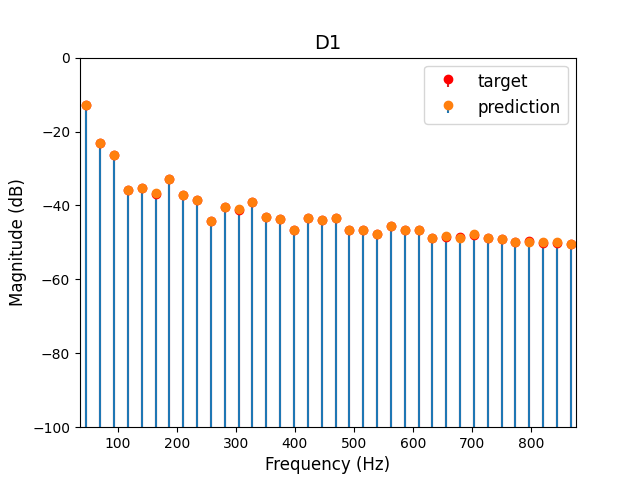
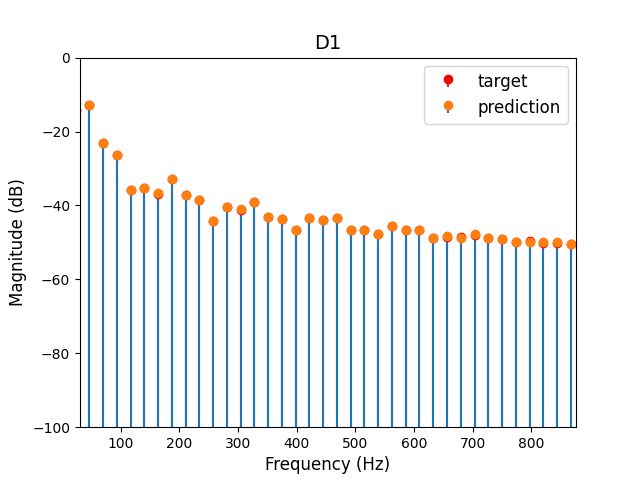
Add documentation

diff --git a/README.md b/README.md
@@ -73,18 +73,19 @@ The proposed methodology learns the target waveshape and replicates any aliasing
 The following frequency domain plots examples demonstrates that the model (LSTM variant) accurately reproduces the frequency content of the target recordings without introducing additional aliasing.
 
 <div align="left">
- <img src="./fig/10aliasing_fft.png" width="300">
- <img src="./fig/20aliasing_fft.png" width="300">
+ <img src="./fig/10aliasing_fft.png" width="200">
+ <img src="./fig/20aliasing_fft.png" width="200">
+ <img src="./fig/30aliasing_fft.png" width="200">
 </div>
 
 <div align="left">
- <img src="./fig/30aliasing_fft.png" width="300">
- <img src="./fig/40aliasing_fft.png" width="300">
+ <img src="./fig/50aliasing_fft.png" width="200">
+<img src="./fig/60aliasing_fft.png" width="200">
+<img src="./fig/70aliasing_fft.png" width="200">
 </div>
+
 <div align="left">
-<img src="./fig/50aliasing_fft.png" width="300">
- <img src="./fig/60aliasing_fft.png" width="300">
- <img src="./fig/70aliasing_fft.png" width="300">
+<img src="./fig/70aliasing_fft.png" width="200">
 </div>
 
 # VST Download
